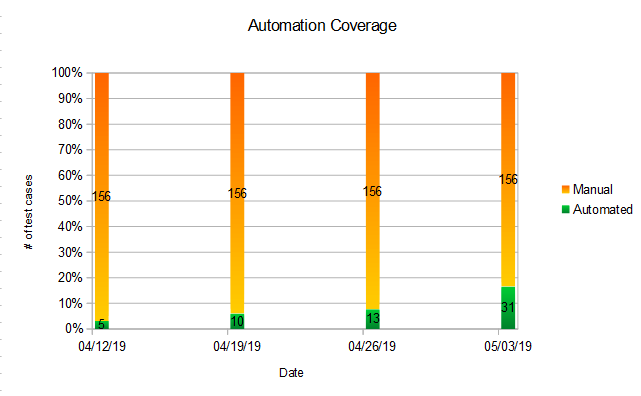
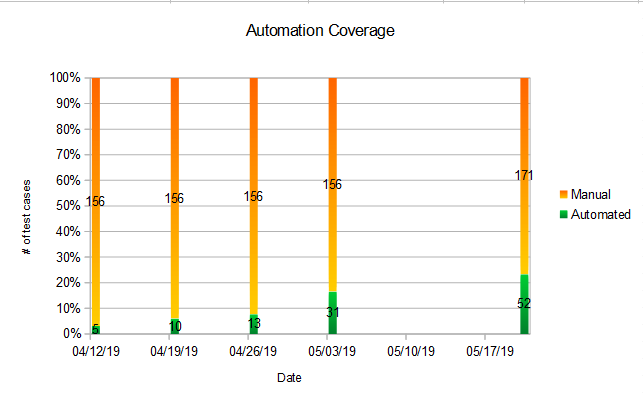
new report for 20/05

diff --git a/README.md b/README.md
@@ -1,22 +1,21 @@
 ## Coverage Status
 
-| Modules     | Feature             | Number of test cases | Automated | Coverage         |
-|:------------|:--------------------|:---------------------|:----------|:-----------------|
-| JCLI        |                     |                      |           |                  |
-|             | address             | 17                   | 8         | 47 %             |
-|             | certificate         | 12                   | 0         | 0 %              |
-|             | debug               | 3                    | 0         | 0 %              |
-|             | genesis             | 34                   | 1         | 3 %              |
-|             | key                 | 14                   | 14        | 100 %            |
-|             | rest                | 20                   | 2         | 1 %              |
-|             | transaction         | 6                    | 1         | 17 %             |
-| Jormungandr |                     |                      |           |                  |
-|             | startup             | 7                    | 1         | 14  %            |
-|             | transaction         | 14                   | 3         | 21  %            |
-|             | configuration       | 21                   | 1         | 5   %            |
-|             | node communications | 8                    | 0         | 0   %            |
-| Summary     |                     | 156                  | 31        | **19 %**         |
-
+| Modules     |                     | Number of test cases | Automated | Coverage (in % ) | Archive |            |           |        |
+|:------------|:--------------------|:---------------------|:----------|:-----------------|:--------|:-----------|:----------|:-------|
+| JCLI        |                     |                      |           |                  |         | Date       | Automated | Manual |
+|             | address             | 17                   | 8         | 47          %    |         | 2019-04-12 | 5         | 156    |
+|             | certificate         | 12                   | 1         | 8             %  |         | 2019-04-19 | 10        | 156    |
+|             | debug               | 3                    | 0         | 0              % |         | 2019-04-26 | 13        | 156    |
+|             | genesis             | 34                   | 2         | 6             %  |         | 2019-05-03 | 31        | 156    |
+|             | key                 | 15                   | 13        | 87           %   |         | 2019-05-20 | 52        | 171    |
+|             | rest                | 20                   | 9         | 45             % |         |            |           |        |
+|             | transaction         | 20                   | 12        | 60        %      |         |            |           |        |
+| Jormungandr |                     |                      |           |              %   |         |            |           |        |
+|             | startup             | 7                    | 1         | 14            %  |         |            |           |        |
+|             | transaction         | 14                   | 4         | 29         %     |         |            |           |        |
+|             | configuration       | 21                   | 1         | 5          %     |         |            |           |        |
+|             | node communications | 8                    | 1         | 13  %            |         |            |           |        |
+| Summary     |                     | 171                  | 52        | 30     %         |         |            |           |        |
 ### Coverage History 
 
 ![Alt text](images/automation_coverage.PNG?raw=true "Coverage History")
@@ -24,36 +23,60 @@
 ## Automation Status
 
 ### Automation Report
-| Test                                                                  | Status | Desc         | Bug ID |
-|:----------------------------------------------------------------------|:-------|:-------------|:-------|
-| test_delegation_address_is_the_same_as_public                         | ok     |              |        |
-| test_account_address_made_of_ed25519_extended_key                     | failed | Sev 4        | #306   |
-| test_utxo_address_made_of_ed25519_extended_key                        | ok     |              |        |
-| test_account_address_made_of_incorrect_ed25519_extended_key           | ok     |              |        |
-| test_utxo_address_made_of_incorrect_ed25519_extended_key              | failed | Sev 4        | #306   |
-| test_delegation_address_made_of_random_string                         | failed | Sev 4        | #306   |
-| test_delegation_address_made_of_ed25519_extended_seed_key             | ok     |              |        |
-| test_delegation_address_made_of_incorrect_public_ed25519_extended_key | failed | Sev 4        | #306   |
-| test_genesis_block_is_built_from_corect_yaml                          | ok     |              |        |
-| test_ed25510bip32_key_generation                                      | ok     |              |        |
-| test_ed25519_key_generation                                           | ok     |              |        |
-| test_ed25519extended_key_generation                                   | ok     |              |        |
-| test_curve25519_2hashdh_key_generation                                | ok     |              |        |
-| test_fake_mm_key_generation                                           | ok     |              |        |
-| test_key_to_public                                                    | ok     |              |        |
-| test_key_to_public_invalid_key                                        | ok     |              |        |
-| test_key_with_seed_generation                                         | ok     |              |        |
-| test_key_with_seed_with_unknown_symbol_generation                     | ok     |              |        |
-| test_key_with_too_long_seed_generation                                | ok     |              |        |
-| test_key_with_too_short_seed_generation                               | ok     |              |        |
-| test_unknown_key_type_generation                                      | ok     |              |        |
-| test_private_key_to_public_key                                        | ok     |              |        |
-| test_key_from_and_to_bytes                                            | ok     |              |        |
-| test_correct_utxos_are_read_from_node                                 | ok     |              |        |
-| test_unbalanced_output_utxo_transation_is_rejected                    | ok     |              |        |
-| test_utxo_transation_with_more_than_one_witness_per_input_is_rejected | ok     |              |        |
-| test_correct_utxo_transaction_is_accepted_by_node                     | ok     |              |        |
-| test_jormungandr_node_starts_successfully                             | ok     |              |        |
+ Test                                                                                                           | Status |        |    |              |
+|:---------------------------------------------------------------------------------------------------------------|:-------|:-------|:---|:-------------|
+| jcli_app::transaction::staging::tests::test_initial_stage_is_balancing                                         | ok     |        |    |              |
+| jcli_app::transaction::staging::tests::test_cannot_add_input_when_stage_is_finalizing                          | ok     |        |    |              |
+| jcli_app::transaction::new::tests::test_staging_file_is_created                                                | ok     |        |    |              |
+| jcli_app::block::yaml::test::conversion_to_and_from_message_preserves_data                                     | ok     |        |    |              |
+| jcli_app::transaction::add_input::tests::test_input_transaction_is_saved                                       | ok     |        |    |              |
+| test_delegation_address_is_the_same_as_public                                                                  | ok     |        |    |              |
+| test_delegation_address_made_of_random_string                                                                  | ok     |        |    |              |
+| test_account_address_made_of_incorrect_ed25519_extended_key                                                    | ok     |        |    |              |
+| test_utxo_address_made_of_incorrect_ed25519_extended_key                                                       | ok     |        |    |              |
+| test_utxo_address_made_of_ed25519_extended_key                                                                 | ok     |        |    |              |
+| test_account_address_made_of_ed25519_extended_key                                                              | ok     | Status |    |              |
+| test_delegation_address_made_of_ed25519_extended_seed_key                                                      | ok     | failed | ok | Total Result |
+| test_delegation_address_made_of_incorrect_public_ed25519_extended_key                                          | ok     | 0      | 54 | 54           |
+| test_genesis_block_is_built_from_corect_yaml                                                                   | ok     |        |    |              |
+| test_curve25519_2hashdh_key_generation                                                                         | ok     |        |    |              |
+| test_ed25519_key_generation                                                                                    | ok     |        |    |              |
+| test_ed25519extended_key_generation                                                                            | ok     |        |    |              |
+| test_ed25510bip32_key_generation                                                                               | ok     |        |    |              |
+| test_key_to_public_invalid_chars_key                                                                           | ok     |        |    |              |
+| test_key_to_public_invalid_key                                                                                 | ok     |        |    |              |
+| test_key_to_public                                                                                             | ok     |        |    |              |
+| test_key_with_seed_generation                                                                                  | ok     |        |    |              |
+| test_key_with_seed_with_unknown_symbol_generation                                                              | ok     |        |    |              |
+| test_key_with_too_long_seed_generation                                                                         | ok     |        |    |              |
+| test_key_with_too_short_seed_generation                                                                        | ok     |        |    |              |
+| test_unknown_key_type_generation                                                                               | ok     |        |    |              |
+| test_private_key_to_public_key                                                                                 | ok     |        |    |              |
+| test_key_from_and_to_bytes                                                                                     | ok     |        |    |              |
+| test_sumed25519_12_key_generation                                                                              | ok     |        |    |              |
+| test_correct_error_is_returned_for_incorrect_host_syntax                                                       | ok     |        |    |              |
+| test_correct_error_is_returned_for_incorrect_host_address                                                      | ok     |        |    |              |
+| test_correct_error_is_returned_for_incorrect_path                                                              | ok     |        |    |              |
+| test_correct_id_is_returned_for_block_tip_if_only_genesis_block_exists                                         | ok     |        |    |              |
+| test_correct_error_is_returned_for_incorrect_block_id                                                          | ok     |        |    |              |
+| test_correct_error_is_returned_for_incorrect_block_id_in_next_block_id_request                                 | ok     |        |    |              |
+| test_next_id_is_empty_for_tip_block                                                                            | ok     |        |    |              |
+| test_non_empty_hash_is_returned_for_block0                                                                     | ok     |        |    |              |
+| test_correct_utxos_are_read_from_node                                                                          | ok     |        |    |              |
+| test_jormungandr_node_starts_successfully                                                                      | ok     |        |    |              |
+| jcli_transaction::input_output_tests::test_cannot_create_input_with_negative_amount                            | ok     |        |    |              |
+| jcli_transaction::input_output_tests::test_cannot_create_input_with_too_big_utxo_amount                        | ok     |        |    |              |
+| jcli_transaction::e2e_transaction_tests::test_utxo_transation_with_more_than_one_witness_per_input_is_rejected | ok     |        |    |              |
+| jcli_transaction::e2e_transaction_tests::test_correct_utxo_transaction_is_accepted_by_node                     | ok     |        |    |              |
+| jcli_transaction::e2e_transaction_tests::test_transaction_from_account_to_account_is_accepted_by_node          | ok     |        |    |              |
+| jcli_transaction::e2e_transaction_tests::test_transaction_from_utxo_to_account_is_accepted_by_node             | ok     |        |    |              |
+| jcli_transaction::input_output_tests::test_input_with_smaller_value_than_initial_utxo_is_rejected_by_node      | ok     |        |    |              |
+| jcli_transaction::input_output_tests::test_input_with_no_spending_utxo_is_accepted_by_node                     | ok     |        |    |              |
+| jcli_transaction::input_output_tests::test_unbalanced_output_utxo_transation_is_not_finalized                  | ok     |        |    |              |
+| jcli_certificates::new_certificate_test::test_create_and_sign_new_stake_delegation                             | ok     |        |    |              |
+| jcli_transaction::e2e_transaction_tests::test_two_correct_utxo_to_utxo_transactions_are_accepted_by_node       | ok     |        |    |              |
+| jcli_transaction::input_output_tests::test_transaction_with_input_address_equal_to_output_is_accepted_by_node  | ok     |        |    |              |
+| jcli_transaction::input_output_tests::test_transaction_with_non_existing_id_should_be_rejected_by_node         | ok     |        |    |              |
 
 ### Automation Passrate 
 

diff --git a/03MAY19/README.md b/03MAY19/README.md
@@ -1,0 +1,62 @@
+## Coverage Status
+
+| Modules     | Feature             | Number of test cases | Automated | Coverage         |
+|:------------|:--------------------|:---------------------|:----------|:-----------------|
+| JCLI        |                     |                      |           |                  |
+|             | address             | 17                   | 8         | 47 %             |
+|             | certificate         | 12                   | 0         | 0 %              |
+|             | debug               | 3                    | 0         | 0 %              |
+|             | genesis             | 34                   | 1         | 3 %              |
+|             | key                 | 14                   | 14        | 100 %            |
+|             | rest                | 20                   | 2         | 1 %              |
+|             | transaction         | 6                    | 1         | 17 %             |
+| Jormungandr |                     |                      |           |                  |
+|             | startup             | 7                    | 1         | 14  %            |
+|             | transaction         | 14                   | 3         | 21  %            |
+|             | configuration       | 21                   | 1         | 5   %            |
+|             | node communications | 8                    | 0         | 0   %            |
+| Summary     |                     | 156                  | 31        | **19 %**         |
+
+### Coverage History 
+
+![Alt text](images/automation_coverage.PNG?raw=true "Coverage History")
+
+## Automation Status
+
+### Automation Report
+| Test                                                                  | Status | Desc         | Bug ID |
+|:----------------------------------------------------------------------|:-------|:-------------|:-------|
+| test_delegation_address_is_the_same_as_public                         | ok     |              |        |
+| test_account_address_made_of_ed25519_extended_key                     | failed | Sev 4        | #306   |
+| test_utxo_address_made_of_ed25519_extended_key                        | ok     |              |        |
+| test_account_address_made_of_incorrect_ed25519_extended_key           | ok     |              |        |
+| test_utxo_address_made_of_incorrect_ed25519_extended_key              | failed | Sev 4        | #306   |
+| test_delegation_address_made_of_random_string                         | failed | Sev 4        | #306   |
+| test_delegation_address_made_of_ed25519_extended_seed_key             | ok     |              |        |
+| test_delegation_address_made_of_incorrect_public_ed25519_extended_key | failed | Sev 4        | #306   |
+| test_genesis_block_is_built_from_corect_yaml                          | ok     |              |        |
+| test_ed25510bip32_key_generation                                      | ok     |              |        |
+| test_ed25519_key_generation                                           | ok     |              |        |
+| test_ed25519extended_key_generation                                   | ok     |              |        |
+| test_curve25519_2hashdh_key_generation                                | ok     |              |        |
+| test_fake_mm_key_generation                                           | ok     |              |        |
+| test_key_to_public                                                    | ok     |              |        |
+| test_key_to_public_invalid_key                                        | ok     |              |        |
+| test_key_with_seed_generation                                         | ok     |              |        |
+| test_key_with_seed_with_unknown_symbol_generation                     | ok     |              |        |
+| test_key_with_too_long_seed_generation                                | ok     |              |        |
+| test_key_with_too_short_seed_generation                               | ok     |              |        |
+| test_unknown_key_type_generation                                      | ok     |              |        |
+| test_private_key_to_public_key                                        | ok     |              |        |
+| test_key_from_and_to_bytes                                            | ok     |              |        |
+| test_correct_utxos_are_read_from_node                                 | ok     |              |        |
+| test_unbalanced_output_utxo_transation_is_rejected                    | ok     |              |        |
+| test_utxo_transation_with_more_than_one_witness_per_input_is_rejected | ok     |              |        |
+| test_correct_utxo_transaction_is_accepted_by_node                     | ok     |              |        |
+| test_jormungandr_node_starts_successfully                             | ok     |              |        |
+
+### Automation Passrate 
+
+![Alt text](images/automation_passrate.PNG?raw=true "Automation Passrate")
+
+
